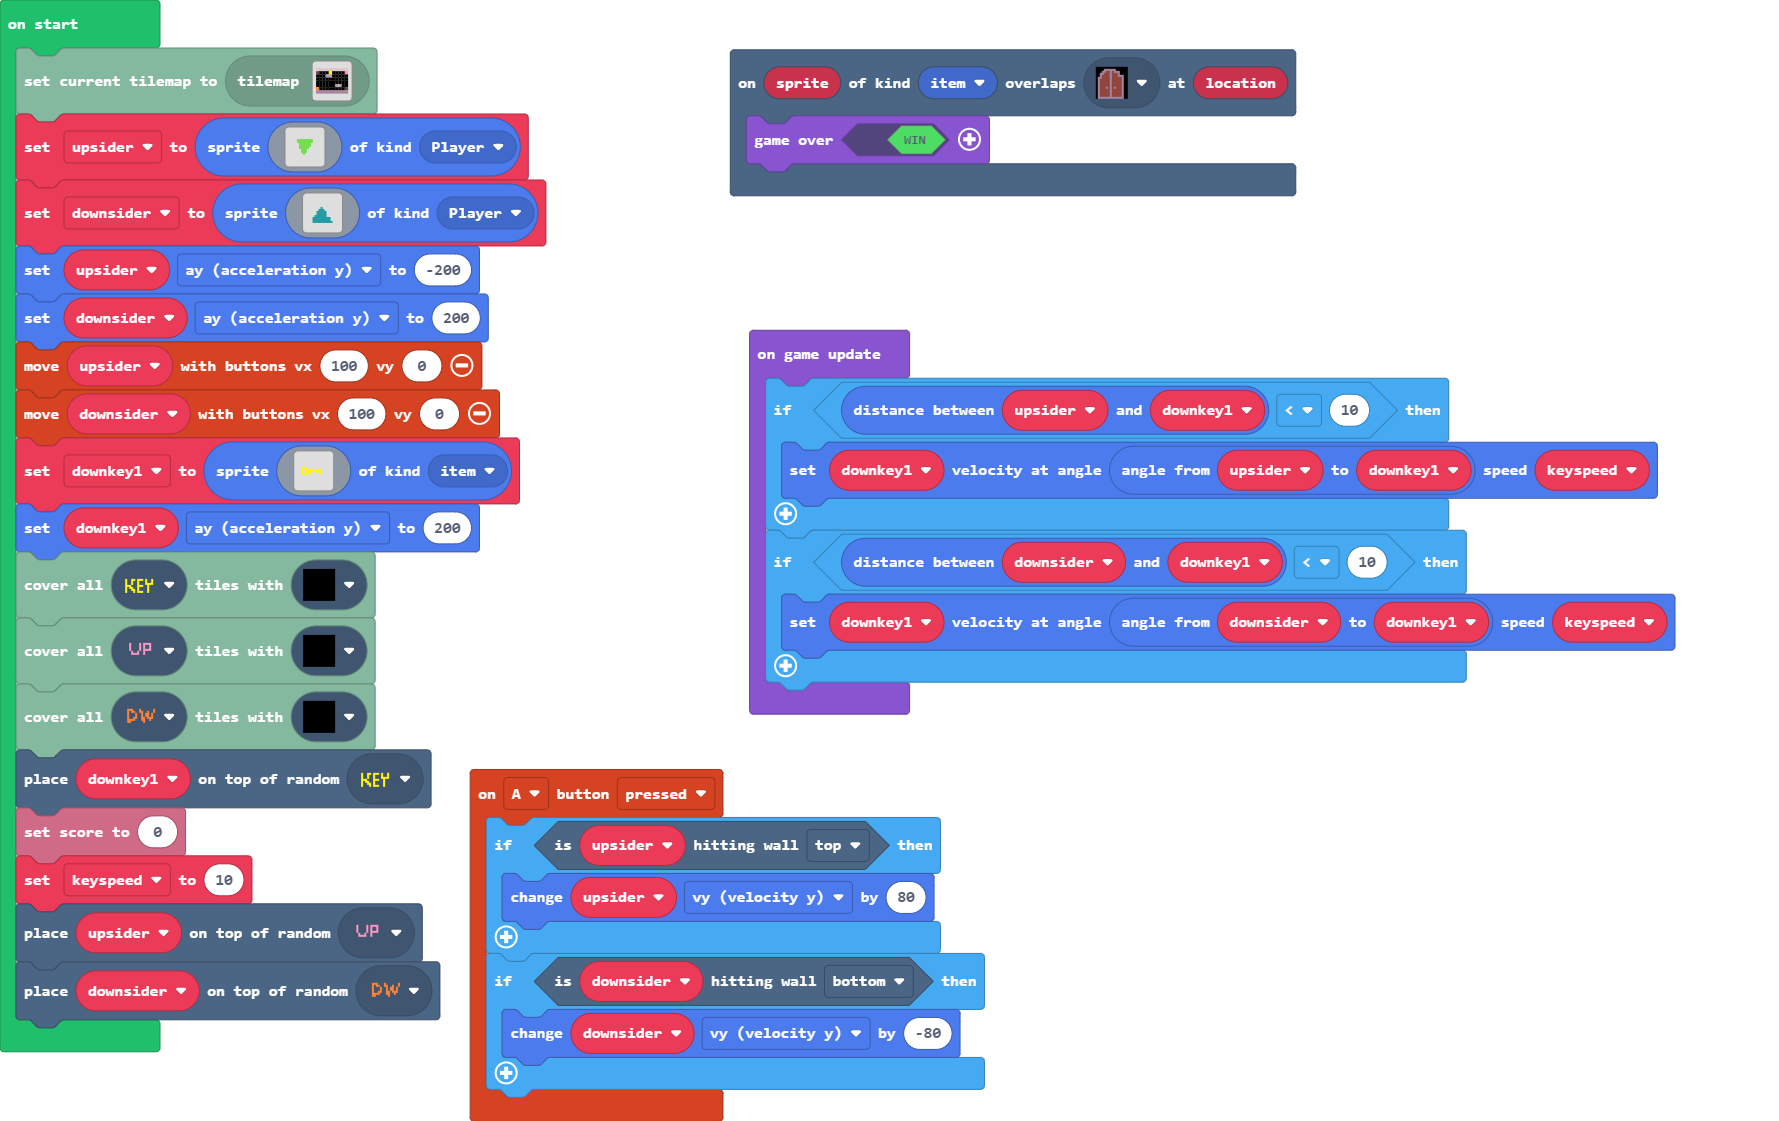
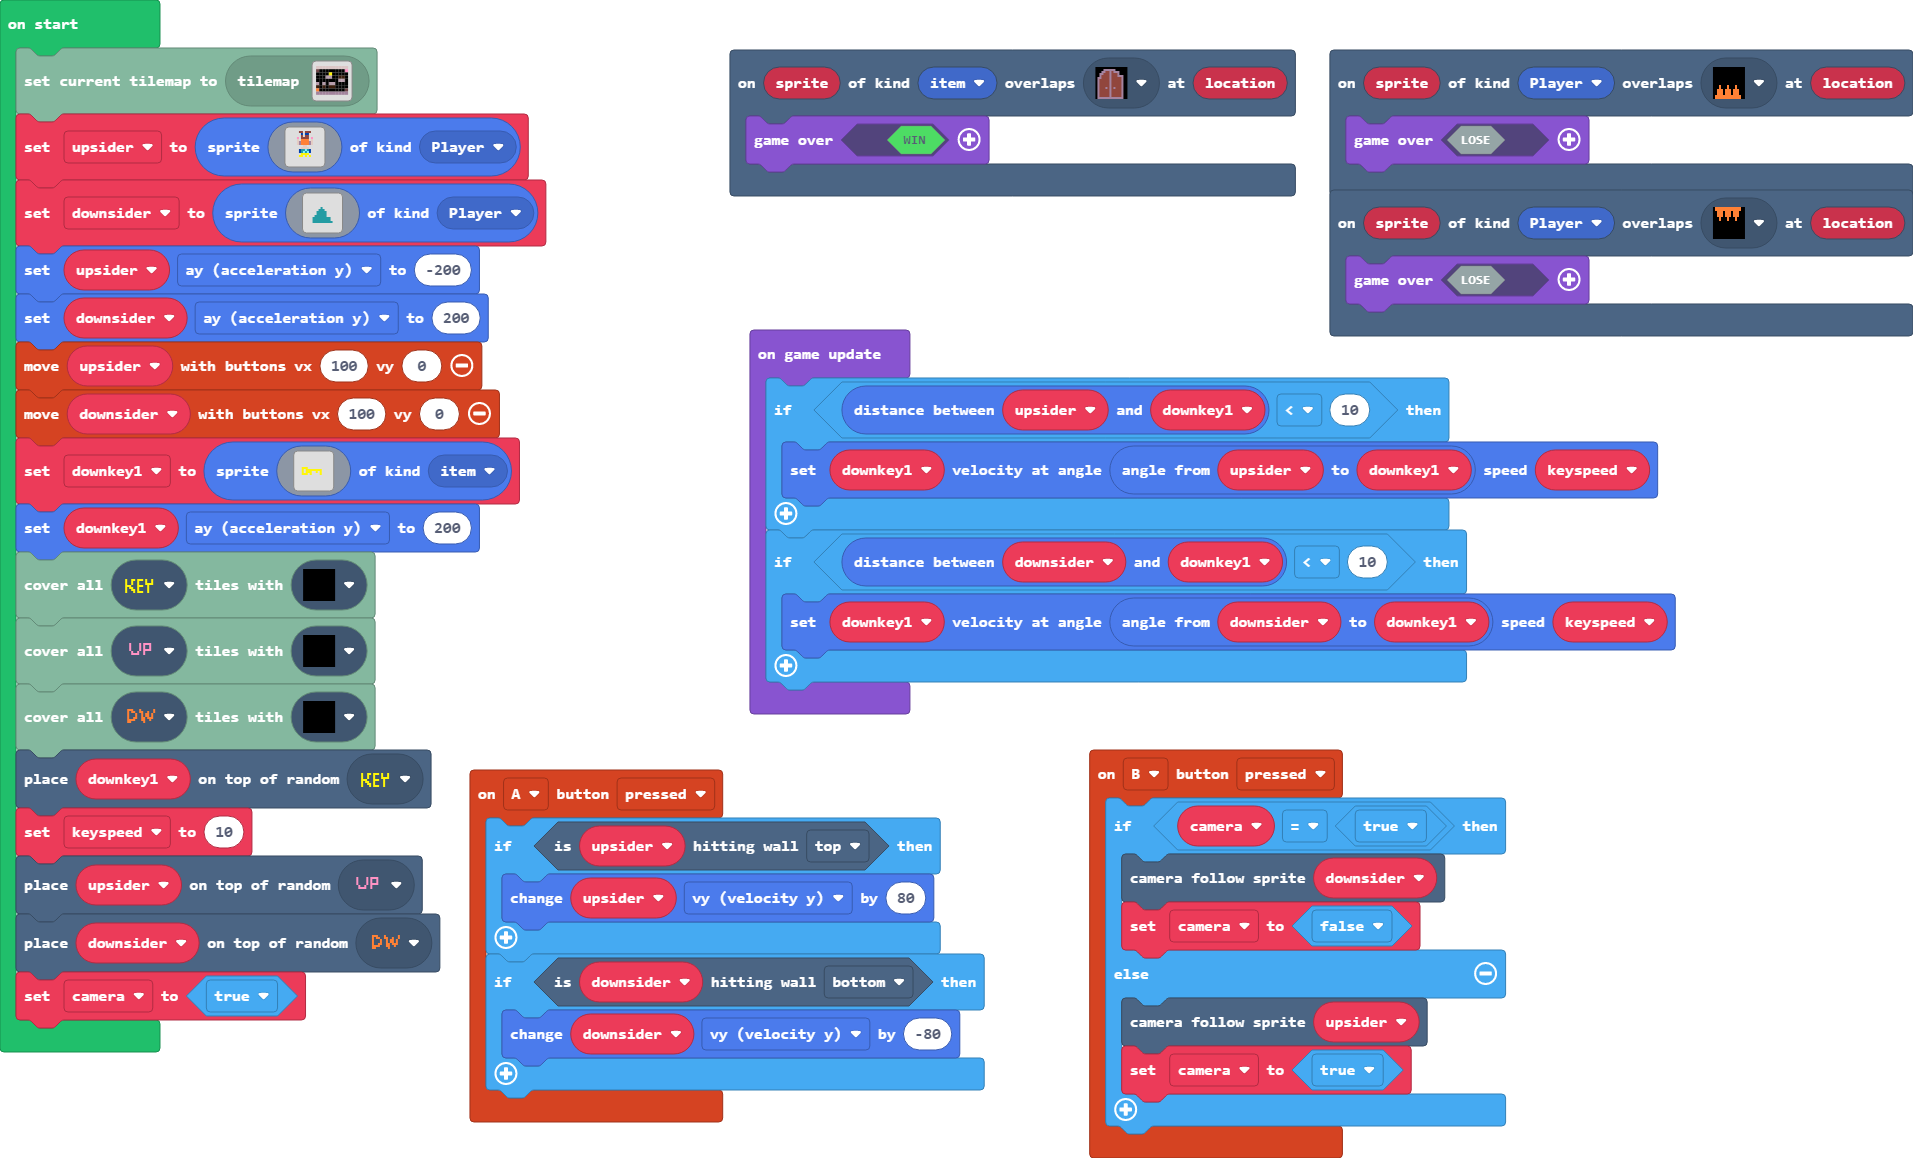
Update main.blocks, main.ts, tilemap.g.jres, tilemap.g.ts

diff --git a/main.ts b/main.ts
@@ -1,6 +1,18 @@
 namespace SpriteKind {
     export const item = SpriteKind.create()
 }
+scene.onOverlapTile(SpriteKind.Player, assets.tile`myTile6`, function (sprite, location) {
+    game.over(false)
+})
+controller.B.onEvent(ControllerButtonEvent.Pressed, function () {
+    if (camera == true) {
+        scene.cameraFollowSprite(downsider)
+        camera = false
+    } else {
+        scene.cameraFollowSprite(upsider)
+        camera = true
+    }
+})
 controller.A.onEvent(ControllerButtonEvent.Pressed, function () {
     if (upsider.isHittingTile(CollisionDirection.Top)) {
         upsider.vy += 80
@@ -12,23 +24,27 @@ controller.A.onEvent(ControllerButtonEvent.Pressed, function () {
 scene.onOverlapTile(SpriteKind.item, assets.tile`myTile1`, function (sprite, location) {
     game.over(true)
 })
+scene.onOverlapTile(SpriteKind.Player, assets.tile`myTile5`, function (sprite, location) {
+    game.over(false)
+})
+let camera = false
 let downsider: Sprite = null
 let upsider: Sprite = null
 tiles.loadMap(tiles.createMap(tilemap`level1`))
 upsider = sprites.create(img`
-    . . . . . . . . . . . . . . . . 
-    . . . . . . . . . . . . . . . . 
-    . . . . . . . . . . . . . . . . 
-    . . . . . . . . . . . . . . . . 
-    . . . . 7 7 7 7 7 7 7 7 . . . . 
-    . . . . 7 7 7 7 7 7 7 7 . . . . 
-    . . . . . 7 7 7 7 7 7 . . . . . 
-    . . . . . 7 7 7 7 7 7 . . . . . 
-    . . . . . 7 7 7 7 7 . . . . . . 
-    . . . . . . 7 7 7 . . . . . . . 
-    . . . . . . 7 7 7 . . . . . . . 
-    . . . . . . . 7 . . . . . . . . 
-    . . . . . . . . . . . . . . . . 
+    . . . . . e e . e e e . . . . . 
+    . . . . . . 8 . 8 8 . . . . . . 
+    . . . . . . e . e e . . . . . . 
+    . . . . 3 . e e e e . 3 . . . . 
+    . . . . d . 4 4 4 4 . d . . . . 
+    . . . . d b 4 4 4 4 b d . . . . 
+    . . . . d b 4 4 4 4 b d . . . . 
+    . . . . . . . d d . . . . . . . 
+    . . . . . . d d d d . . . . . . 
+    . . . . . 8 6 6 9 6 8 . . . . . 
+    . . . . . 8 6 9 6 9 8 . . . . . 
+    . . . . . . 5 5 5 5 . . . . . . 
+    . . . . . 5 5 . 5 . 5 . . . . . 
     . . . . . . . . . . . . . . . . 
     . . . . . . . . . . . . . . . . 
     . . . . . . . . . . . . . . . . 
@@ -78,10 +94,10 @@ tiles.coverAllTiles(assets.tile`myTile`, assets.tile`myTile0`)
 tiles.coverAllTiles(assets.tile`myTile3`, assets.tile`myTile0`)
 tiles.coverAllTiles(assets.tile`myTile4`, assets.tile`myTile0`)
 tiles.placeOnRandomTile(downkey1, assets.tile`myTile`)
-info.setScore(0)
 let keyspeed = 10
 tiles.placeOnRandomTile(upsider, assets.tile`myTile3`)
 tiles.placeOnRandomTile(downsider, assets.tile`myTile4`)
+camera = true
 game.onUpdate(function () {
     if (spriteutils.distanceBetween(upsider, downkey1) < 10) {
         spriteutils.setVelocityAtAngle(downkey1, spriteutils.angleFrom(upsider, downkey1), keyspeed)

diff --git a/tilemap.g.ts b/tilemap.g.ts
@@ -14,20 +14,25 @@ namespace myTiles {
     export const tile5 = image.ofBuffer(hex``);
     //% fixedInstance jres blockIdentity=images._tile
     export const tile6 = image.ofBuffer(hex``);
+    //% fixedInstance jres blockIdentity=images._tile
+    export const tile7 = image.ofBuffer(hex``);
+    //% fixedInstance jres blockIdentity=images._tile
+    export const tile8 = image.ofBuffer(hex``);
 
     helpers._registerFactory("tilemap", function(name: string) {
         switch(helpers.stringTrim(name)) {
             case "level1":
[2 lines of base64/hex data omitted]
 2 2 2 2 2 2 2 2 2 2 
+. . . . . . . . . . 
 . . . . . . . . . . 
 . . . 2 2 . . . . . 
+. . . . . . . 2 2 . 
+2 . 2 . 2 2 . . . . 
 . . . . . . . . . . 
-. . . . . . . . . . 
-. . . . . . 2 2 . . 
 . . . . . . . . . . 
 2 2 2 2 2 2 2 2 2 2 
-`, [myTiles.transparency16,sprites.dungeon.floorLight0,sprites.dungeon.floorDark0,sprites.dungeon.floorMixed,myTiles.tile1,myTiles.tile2,myTiles.tile3,myTiles.tile4,myTiles.tile5,myTiles.tile6], TileScale.Sixteen);
+`, [myTiles.transparency16,sprites.dungeon.floorLight0,sprites.dungeon.floorDark0,sprites.dungeon.floorMixed,myTiles.tile1,myTiles.tile2,myTiles.tile3,myTiles.tile4,myTiles.tile5,myTiles.tile6,myTiles.tile7,myTiles.tile8], TileScale.Sixteen);
         }
         return null;
     })
@@ -47,6 +52,10 @@ namespace myTiles {
             case "tile5":return tile5;
             case "myTile4":
             case "tile6":return tile6;
+            case "myTile5":
+            case "tile7":return tile7;
+            case "myTile6":
+            case "tile8":return tile8;
         }
         return null;
     })
